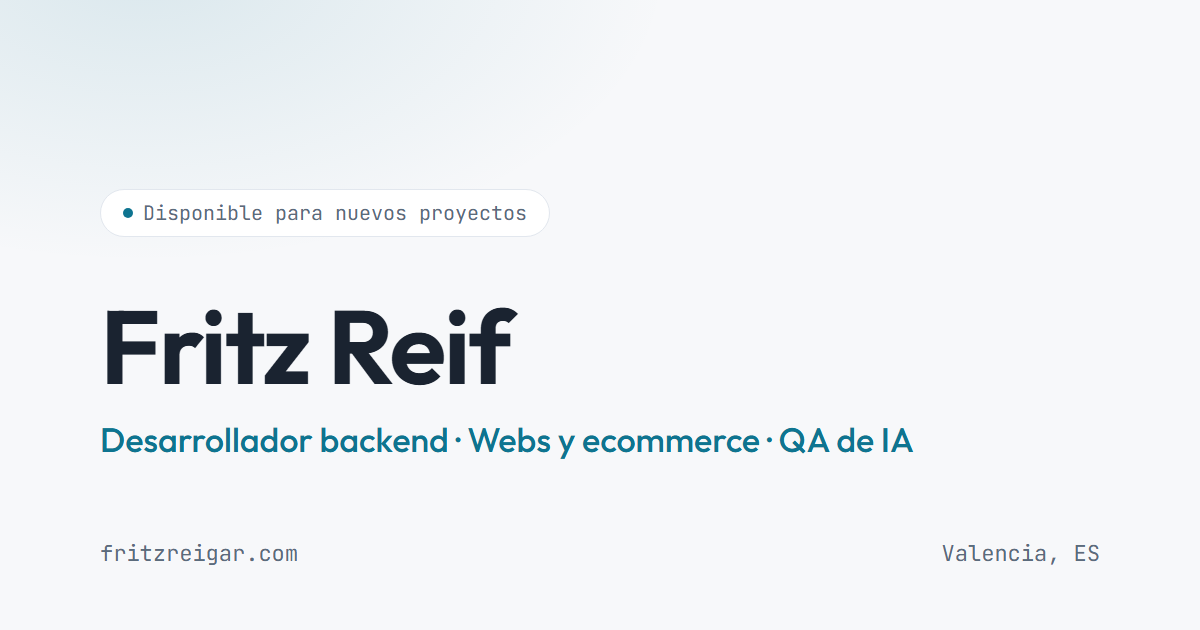
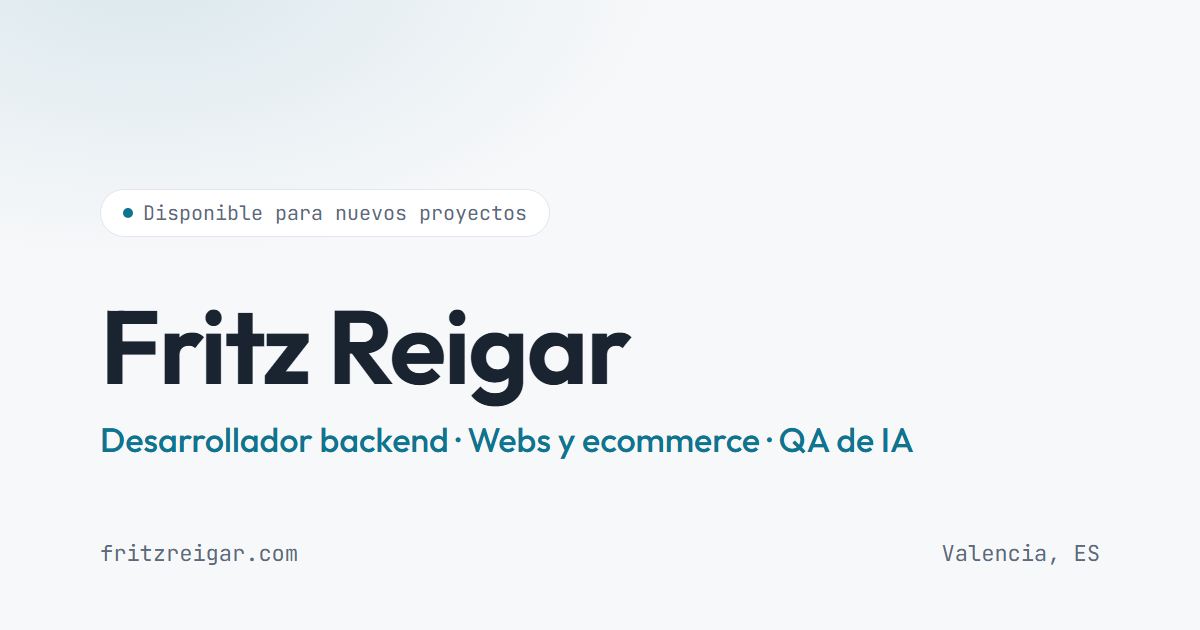
Use professional name Fritz Reigar; SEO and form improvements
- Rename Fritz Reif -> Fritz Reigar across site, OG image, EN dictionary and README
- Add JSON-LD Person schema, canonical URL, theme-color metas
- Contact form: AJAX submit with inline success/error messages (bilingual), honeypot and custom subject
- Add 404 page, robots.txt and sitemap.xml

Changed region(s): [[0.37, 0.4825, 0.5242, 0.6635]]

diff --git a/index.html b/index.html
@@ -3,20 +3,39 @@
   <head>
     <meta charset="UTF-8" />
     <meta name="viewport" content="width=device-width, initial-scale=1.0" />
-    <meta name="description" content="Fritz Reif — Desarrollador backend y servicios web en Valencia. Webs y tiendas online con WordPress/WooCommerce, presencia online local, dominios y hosting, desarrollo con Java y C++, QA de IA." />
+    <meta name="description" content="Fritz Reigar — Desarrollador backend y servicios web en Valencia. Webs y tiendas online con WordPress/WooCommerce, presencia online local, dominios y hosting, desarrollo con Java y C++, QA de IA." />
     <meta name="robots" content="index, follow" />
-    <meta property="og:title" content="Fritz Reif — Desarrollador y servicios web" />
+    <meta property="og:title" content="Fritz Reigar — Desarrollador y servicios web" />
     <meta property="og:description" content="Desarrollo backend, webs y tiendas online, presencia digital para negocios y QA de modelos de IA. Autónomo en Valencia." />
     <meta property="og:url" content="https://fritzreigar.com" />
     <meta property="og:type" content="website" />
     <meta property="og:locale" content="es_ES" />
     <meta property="og:image" content="https://fritzreigar.com/assets/img/og-preview.png" />
+    <link rel="canonical" href="https://fritzreigar.com/" />
+    <meta name="theme-color" content="#f7f8fa" media="(prefers-color-scheme: light)" />
+    <meta name="theme-color" content="#0d141c" media="(prefers-color-scheme: dark)" />
     <link rel="icon" type="image/x-icon" href="assets/img/favicon.ico" />
+    <script type="application/ld+json">
+      {
+        "@context": "https://schema.org",
+        "@type": "Person",
+        "name": "Fritz Reigar",
+        "url": "https://fritzreigar.com",
+        "jobTitle": "Desarrollador backend y técnico web freelance",
+        "email": "mailto:contact@fritzreigar.com",
+        "address": { "@type": "PostalAddress", "addressLocality": "Valencia", "addressCountry": "ES" },
+        "sameAs": [
+          "https://github.com/FritzReigar",
+          "https://www.linkedin.com/in/fritz-reif-garcia/"
+        ],
+        "knowsAbout": ["Java", "C++", "WordPress", "WooCommerce", "SEO local", "QA de IA"]
+      }
+    </script>
     <link rel="preconnect" href="https://fonts.googleapis.com" />
     <link rel="preconnect" href="https://fonts.gstatic.com" crossorigin />
     <link href="https://fonts.googleapis.com/css2?family=Outfit:wght@400..700&family=JetBrains+Mono:wght@400;500&display=swap" rel="stylesheet" />
     <link rel="stylesheet" href="css/styles.css" />
-    <title>Fritz Reif — Desarrollador y servicios web</title>
+    <title>Fritz Reigar — Desarrollador y servicios web</title>
     <script>
       // Aplica el tema guardado antes del primer pintado para evitar el parpadeo
       (function () {
@@ -33,7 +52,7 @@
 
     <header class="site-header">
       <div class="header-inner">
-        <a class="brand" href="#">Fritz Reif</a>
+        <a class="brand" href="#">Fritz Reigar</a>
         <nav class="site-nav" aria-label="Secciones">
           <a href="#servicios" data-i18n="nav-servicios">Servicios</a>
           <a href="#experiencia" data-i18n="nav-experiencia">Experiencia</a>
@@ -54,7 +73,7 @@
             <span class="chip-dot" aria-hidden="true"></span>
             <span data-i18n="hero-chip">Disponible para nuevos proyectos</span>
           </p>
-          <h1>Fritz Reif</h1>
+          <h1>Fritz Reigar</h1>
           <p class="hero-role" data-i18n="hero-role">Desarrollador backend · Webs y ecommerce para negocios · QA de IA</p>
           <p class="hero-intro" data-i18n="hero-intro">Construyo sistemas backend con Java y C++, evalúo modelos de IA para Lionbridge y DataAnnotation, y creo webs, tiendas online y presencia digital para pequeños negocios. Autónomo en Valencia, estudiante de DAM.</p>
           <div class="hero-actions">
@@ -248,6 +267,8 @@
           <p class="contact-intro" data-i18n="contact-intro">¿Tienes un proyecto o quieres proponerme algo? Escríbeme y te respondo pronto.</p>
           <p class="contact-email"><span data-i18n="contact-email">O directamente a</span> <a href="mailto:contact@fritzreigar.com">contact@fritzreigar.com</a></p>
           <form action="https://formspree.io/f/xojkdwog" method="POST" class="contact-form">
+            <input type="hidden" name="_subject" value="Nuevo mensaje desde fritzreigar.com" />
+            <input type="text" name="_gotcha" class="hp-field" tabindex="-1" autocomplete="off" aria-hidden="true" />
             <div class="form-group">
               <label for="form-email">Email</label>
               <input id="form-email" type="email" name="email" required placeholder="tu@email.com" data-i18n-ph="form-email-ph" />
@@ -257,6 +278,7 @@
               <textarea id="form-message" name="message" required placeholder="Cuéntame qué necesitas…" data-i18n-ph="form-msg-ph"></textarea>
             </div>
             <button type="submit" class="btn-primary" data-i18n="form-send">Enviar</button>
+            <p class="form-status" role="status" hidden></p>
           </form>
         </div>
       </section>
@@ -264,7 +286,7 @@
 
     <footer class="site-footer">
       <div class="container footer-inner">
-        <p>© 2026 Fritz Reif · Valencia</p>
+        <p>© 2026 Fritz Reigar · Valencia</p>
         <div class="social-links">
           <a href="https://github.com/FritzReigar" target="_blank" rel="noopener">GitHub</a>
           <a href="https://www.linkedin.com/in/fritz-reif-garcia/" target="_blank" rel="noopener">LinkedIn</a>
@@ -275,5 +297,6 @@
 
     <script src="js/theme.js"></script>
     <script src="js/i18n.js"></script>
+    <script src="js/form.js"></script>
   </body>
 </html>

diff --git a/404.html b/404.html
@@ -1,0 +1,51 @@
+<!doctype html>
+<html lang="es">
+  <head>
+    <meta charset="UTF-8" />
+    <meta name="viewport" content="width=device-width, initial-scale=1.0" />
+    <meta name="robots" content="noindex" />
+    <link rel="icon" type="image/x-icon" href="/assets/img/favicon.ico" />
+    <link rel="preconnect" href="https://fonts.googleapis.com" />
+    <link rel="preconnect" href="https://fonts.gstatic.com" crossorigin />
+    <link href="https://fonts.googleapis.com/css2?family=Outfit:wght@400..700&family=JetBrains+Mono:wght@400;500&display=swap" rel="stylesheet" />
+    <link rel="stylesheet" href="/css/styles.css" />
+    <title>404 — Fritz Reigar</title>
+    <script>
+      // Aplica el tema guardado antes del primer pintado para evitar el parpadeo
+      (function () {
+        var t = localStorage.getItem('fritzreigar-theme');
+        if (t === 'dark' || (!t && matchMedia('(prefers-color-scheme: dark)').matches)) {
+          document.documentElement.classList.add('dark');
+        }
+      })();
+    </script>
+    <style>
+      /* Estilos propios de la 404, encima de styles.css */
+      .error-page {
+        min-height: 100dvh;
+        display: flex;
+        flex-direction: column;
+        justify-content: center;
+      }
+      .error-code {
+        font-family: "JetBrains Mono", monospace;
+        font-size: 0.85rem;
+        letter-spacing: 0.08em;
+        color: var(--accent);
+        margin-bottom: 8px;
+      }
+      .error-page p { color: var(--text-muted); }
+      .error-page .btn-primary { margin-top: 28px; align-self: flex-start; }
+    </style>
+  </head>
+  <body>
+    <main class="error-page">
+      <div class="container">
+        <p class="error-code">ERROR 404</p>
+        <h1>Página no encontrada</h1>
+        <p>Esta página no existe o ha cambiado de sitio.<br />This page doesn't exist or has moved.</p>
+        <a class="btn-primary" href="/">Volver al inicio · Back home</a>
+      </div>
+    </main>
+  </body>
+</html>

diff --git a/js/form.js b/js/form.js
@@ -1,0 +1,56 @@
+// Envío del formulario de contacto sin recargar la página (Formspree AJAX).
+// Muestra el resultado inline en .form-status en el idioma activo.
+
+const contactForm = document.querySelector('.contact-form');
+const formStatus = contactForm.querySelector('.form-status');
+const submitBtn = contactForm.querySelector('button[type="submit"]');
+
+const FORM_MSG = {
+  es: {
+    sending: 'Enviando…',
+    ok: 'Mensaje enviado. Te respondo pronto.',
+    error: 'No se ha podido enviar. Prueba otra vez o escríbeme a contact@fritzreigar.com.',
+  },
+  en: {
+    sending: 'Sending…',
+    ok: "Message sent. I'll get back to you soon.",
+    error: "It couldn't be sent. Try again or email me at contact@fritzreigar.com.",
+  },
+};
+
+function idiomaActual() {
+  return document.documentElement.lang === 'en' ? 'en' : 'es';
+}
+
+contactForm.addEventListener('submit', async (e) => {
+  e.preventDefault();
+  const msg = FORM_MSG[idiomaActual()];
+  const textoBoton = submitBtn.textContent;
+
+  submitBtn.disabled = true;
+  submitBtn.textContent = msg.sending;
+  formStatus.hidden = true;
+
+  try {
+    const res = await fetch(contactForm.action, {
+      method: 'POST',
+      body: new FormData(contactForm),
+      headers: { Accept: 'application/json' },
+    });
+    if (res.ok) {
+      contactForm.reset();
+      formStatus.textContent = msg.ok;
+      formStatus.className = 'form-status ok';
+    } else {
+      formStatus.textContent = msg.error;
+      formStatus.className = 'form-status error';
+    }
+  } catch {
+    formStatus.textContent = msg.error;
+    formStatus.className = 'form-status error';
+  }
+
+  formStatus.hidden = false;
+  submitBtn.disabled = false;
+  submitBtn.textContent = textoBoton;
+});

diff --git a/css/styles.css b/css/styles.css
@@ -13,6 +13,8 @@
   --accent-soft:     rgba(14, 116, 144, 0.08);
   --border:          #e2e7ee;
   --header-bg:       rgba(247, 248, 250, 0.85);
+  --success:         #15803d;
+  --danger:          #b91c1c;
 }
 
 html.dark {
@@ -27,6 +29,8 @@ html.dark {
   --accent-soft:     rgba(76, 196, 221, 0.1);
   --border:          #223140;
   --header-bg:       rgba(13, 20, 28, 0.85);
+  --success:         #4ade80;
+  --danger:          #f87171;
 }
 
 /* ── BASE ──────────────────────────────────────────────────────── */
@@ -363,6 +367,12 @@ a { color: var(--accent); }
   border-color: var(--accent);
 }
 .contact-form textarea { height: 130px; resize: vertical; }
+
+.hp-field { display: none; }
+
+.form-status { margin-top: 16px; font-size: 0.9rem; }
+.form-status.ok { color: var(--success); }
+.form-status.error { color: var(--danger); }
 
 /* ── FOOTER ────────────────────────────────────────────────────── */
 .site-footer {

diff --git a/js/i18n.js b/js/i18n.js
@@ -3,8 +3,8 @@
 // los placeholders de formulario, data-i18n-ph="clave".
 
 const EN = {
-  'meta-title': 'Fritz Reif — Developer & web services',
-  'meta-description': 'Fritz Reif — Backend developer and web services in Valencia, Spain. Websites and online stores with WordPress/WooCommerce, local online presence, domains and hosting, Java and C++ development, AI QA.',
+  'meta-title': 'Fritz Reigar — Developer & web services',
+  'meta-description': 'Fritz Reigar — Backend developer and web services in Valencia, Spain. Websites and online stores with WordPress/WooCommerce, local online presence, domains and hosting, Java and C++ development, AI QA.',
 
   'skip-link': 'Skip to content',
 

diff --git a/CLAUDE.md b/CLAUDE.md
@@ -4,7 +4,9 @@ This file provides guidance to Claude Code (claude.ai/code) when working with co
 
 ## Qué es
 
-Portfolio personal de Fritz (fritzreigar.com). Sitio estático de una sola página: `index.html` + `css/styles.css` + `js/theme.js`. Sin framework, sin build, sin dependencias, sin tests.
+Portfolio personal de Fritz (fritzreigar.com). Sitio estático de una sola página: `index.html` + `css/styles.css` + `js/` (`theme.js`, `i18n.js`, `form.js`). Sin framework, sin build, sin dependencias, sin tests.
+
+**Nombre profesional: Fritz Reigar** — es el que va en todo el contenido público del sitio (el nombre real, Fritz Reif Garcia, solo aparece en la URL de LinkedIn).
 
 ## Desarrollo y deploy
 

diff --git a/README.md b/README.md
@@ -1,6 +1,6 @@
 # Portfolio — fritzreigar.com
 
-Portfolio personal de Fritz Reif: desarrollador backend, QA de IA y servicios
+Portfolio personal de Fritz Reigar: desarrollador backend, QA de IA y servicios
 web para negocios (WordPress/WooCommerce, presencia online local, dominios y
 hosting).
 
